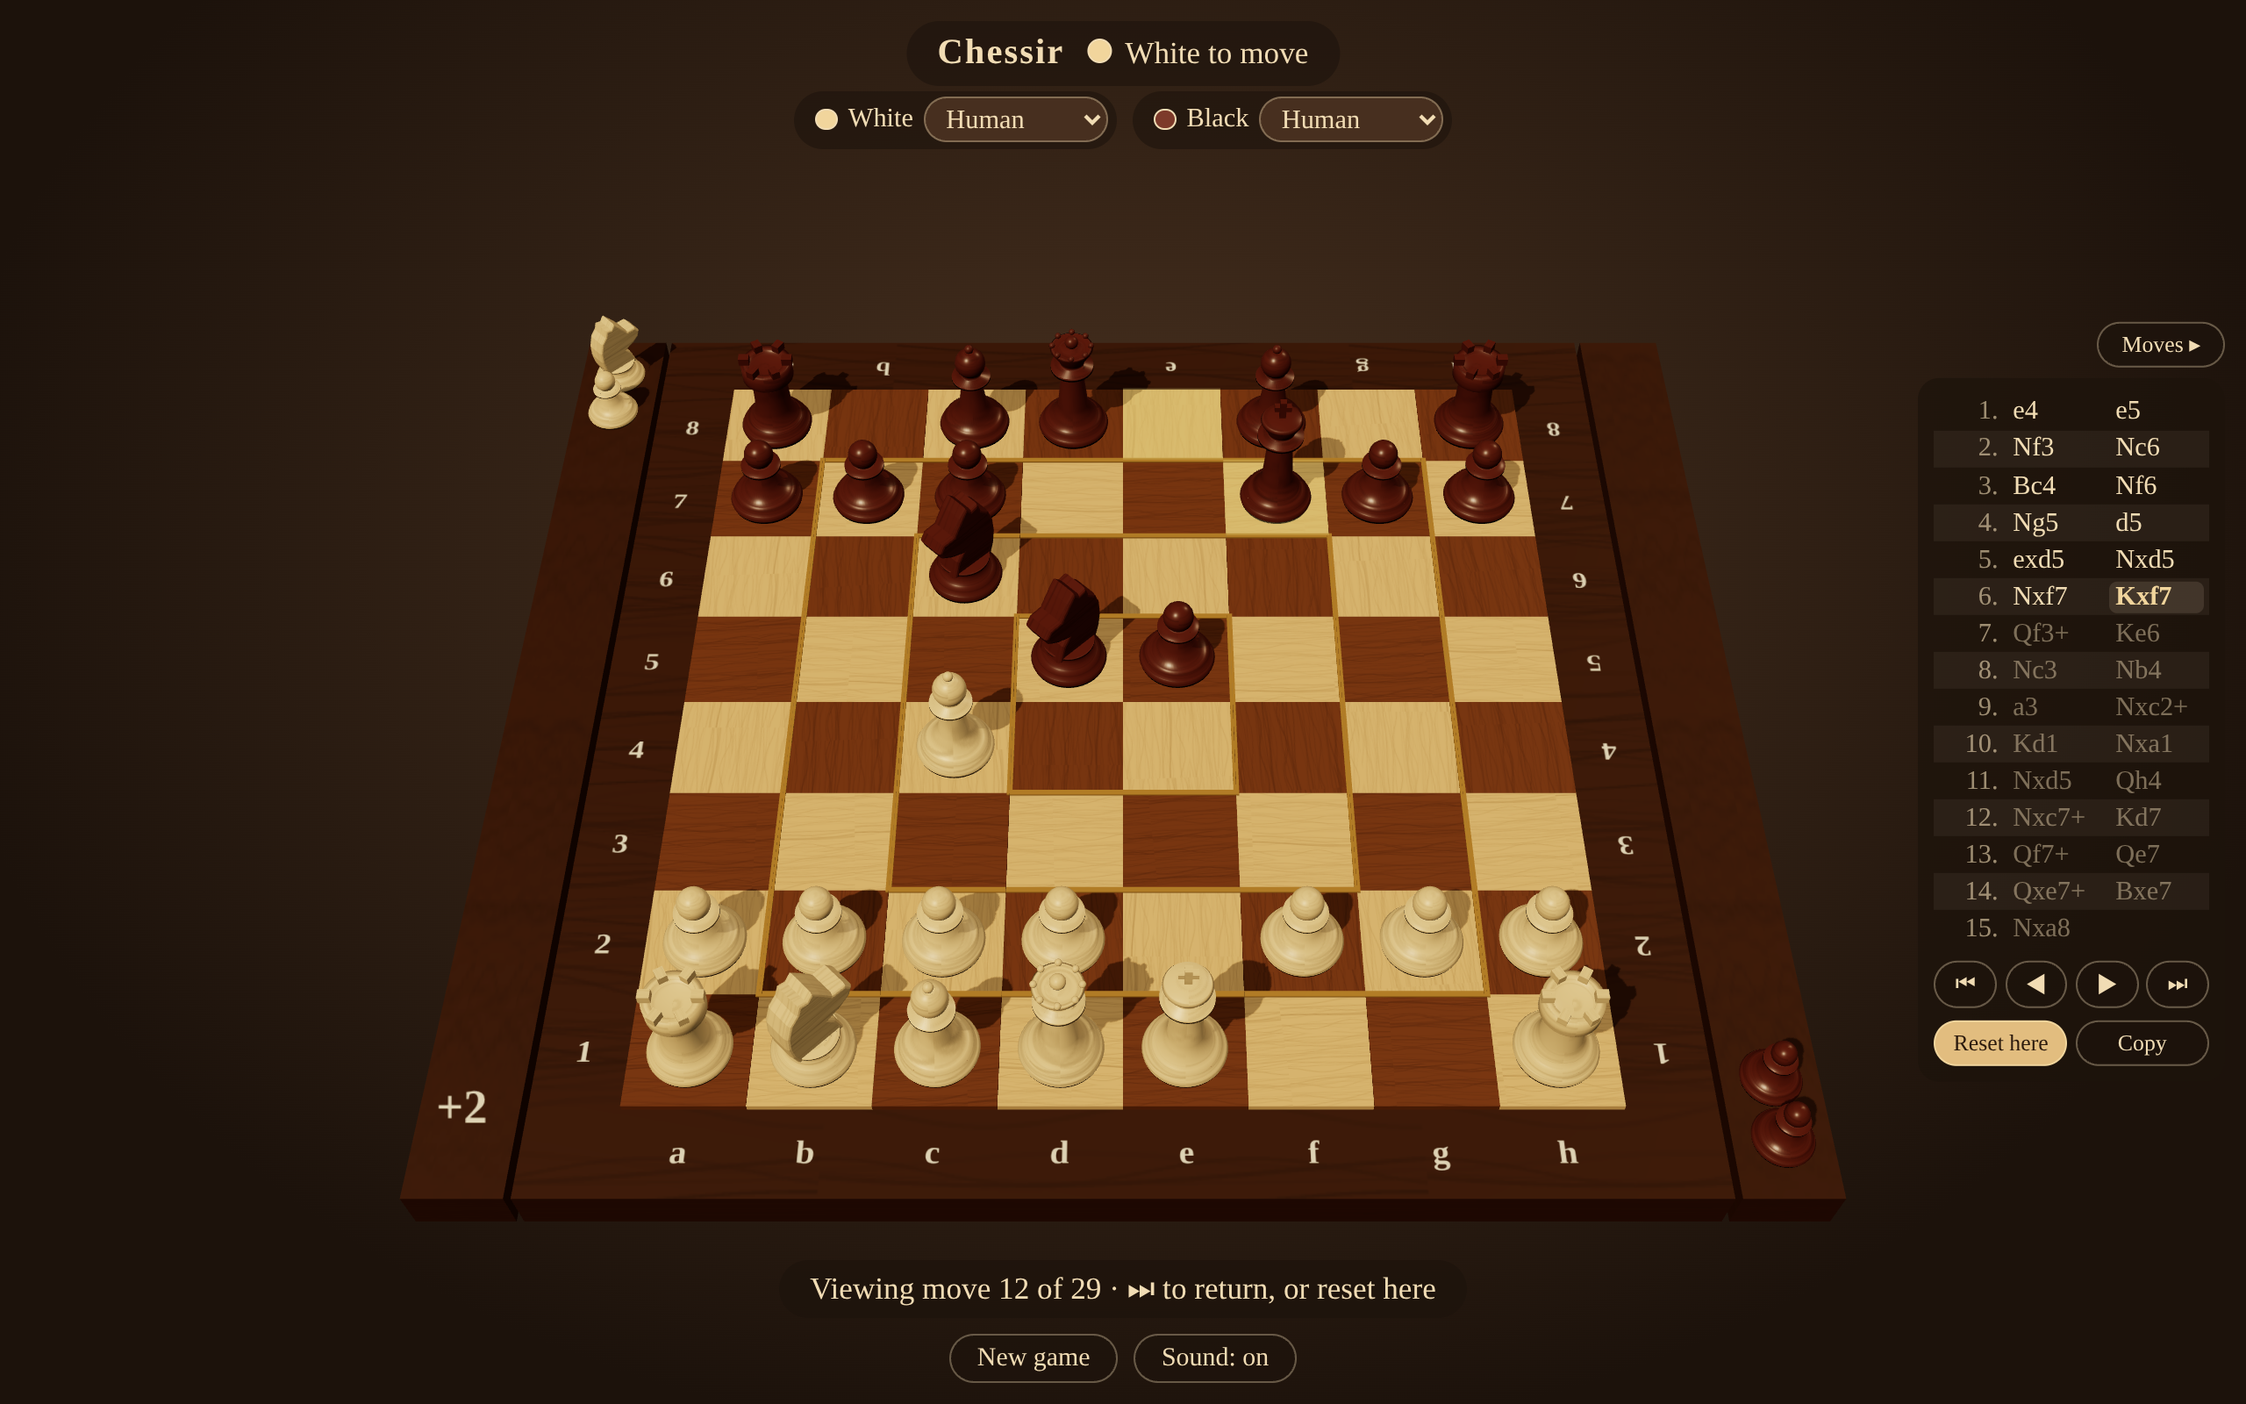
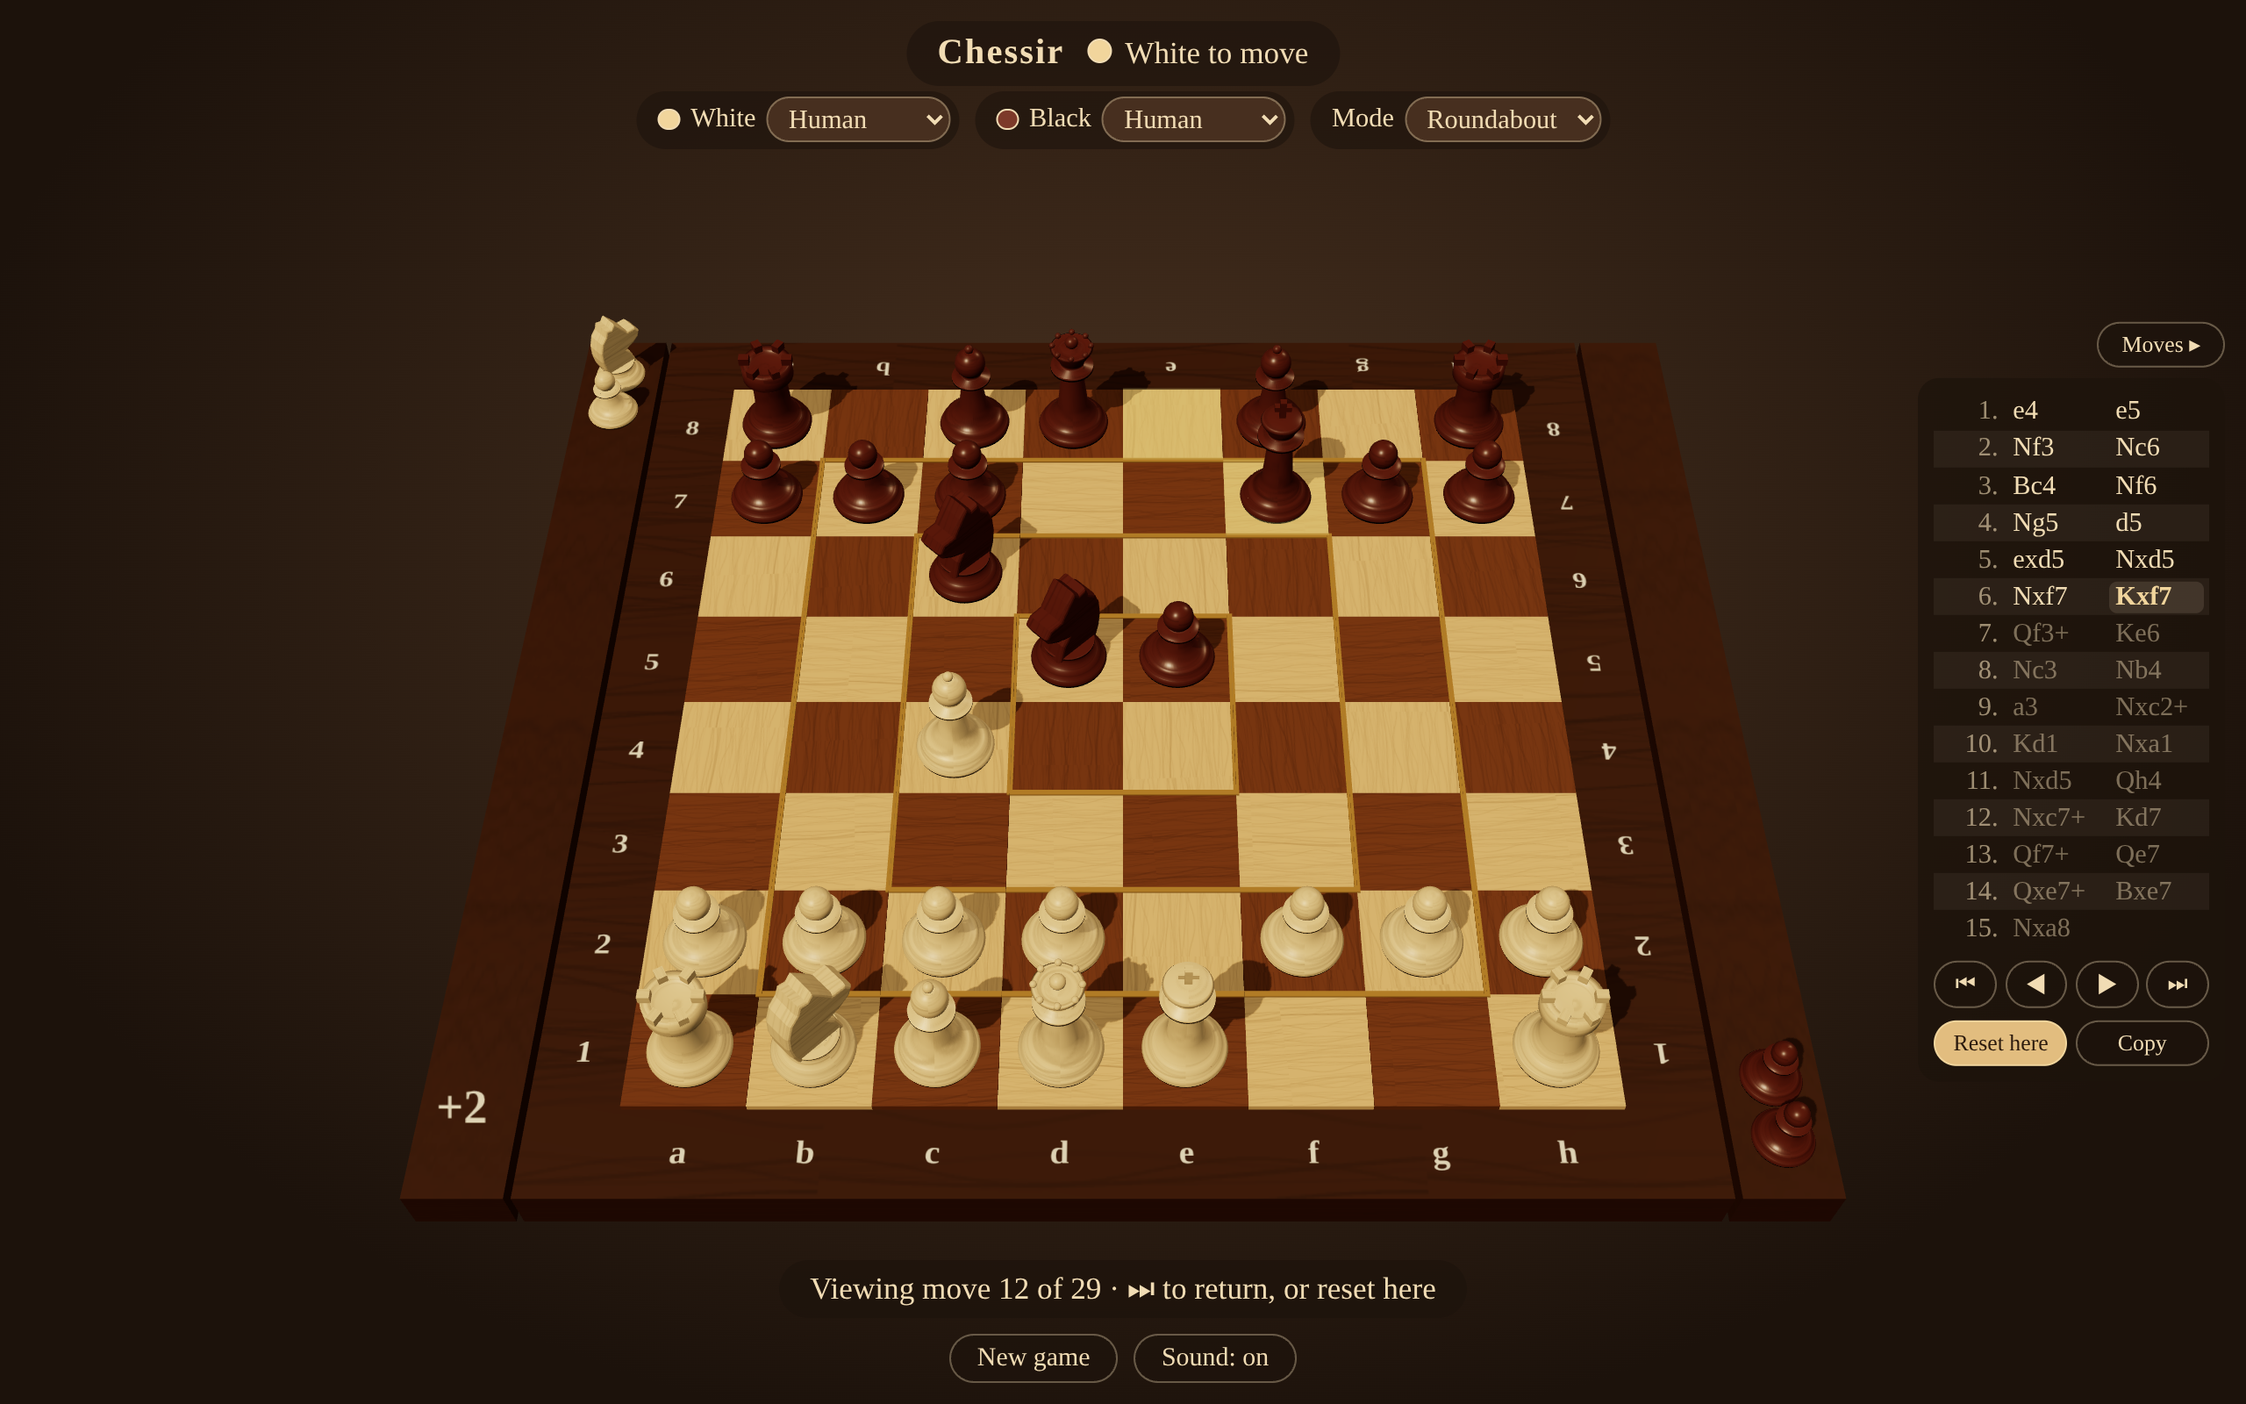
Add game mode switch: roundabout (with rotations) and normal chess
Normal mode refuses every band rotation in the rules and the engine, so
both bots play plain chess. The rotation buttons, band selection and
ring inlays are hidden in normal mode. Changing the mode starts a new
game and is remembered.

Claude-Session: https://claude.ai/code/session_015uFG4y8ubt39LsfkH46yK3

Changed region(s): [[0.2812, 0.0625, 0.7188, 0.125]]

diff --git a/src/players/human.js b/src/players/human.js
@@ -2,10 +2,12 @@ import { moveAction, rotateAction } from '../game/actions.js';
 import { bandOf } from '../game/board.js';
 import { BAND_LETTERS, bandMoveName } from '../game/notation.js';
 import { PROMOTIONS, legalMovesFrom, rotationBlockReason } from '../game/rules.js';
+import { NORMAL } from '../game/state.js';
 
 const BAND_NAMES = ['outer ring', 'second ring', 'third ring', 'centre'];
 const PROMOTION_SYMBOLS = { queen: '♛', rook: '♜', bishop: '♝', knight: '♞' };
 const HINT = 'Tap a piece to move it, or any square to turn its ring';
+const NORMAL_HINT = 'Tap a piece to move it';
 
 /**
  * A player driven by taps on the board and the HUD buttons. One instance serves both
@@ -19,7 +21,8 @@ export function createHumanPlayer(ui, onSelection) {
   let selected = null;
   let moves = [];
 
-  const band = () => (selected === null ? null : bandOf(selected));
+  const turnsBands = () => state?.mode !== NORMAL;
+  const band = () => (selected === null || !turnsBands() ? null : bandOf(selected));
 
   function refresh() {
     const targets = [];
@@ -33,7 +36,9 @@ export function createHumanPlayer(ui, onSelection) {
     const active = resolve !== null && band() !== null;
     ui.bandName.textContent = active
       ? `Turn band ${BAND_LETTERS[band()]} · ${BAND_NAMES[band()]}`
-      : HINT;
+      : turnsBands()
+        ? HINT
+        : NORMAL_HINT;
     let note = '';
     for (const [button, direction] of [
       [ui.rotateCounterClockwise, -1],
@@ -86,7 +91,9 @@ export function createHumanPlayer(ui, onSelection) {
     const options = moves.filter((m) => m.to === square);
     if (options.length > 1) return choosePromotion(options[0].from, square);
     if (options.length === 1) return submit(options[0]);
-    select(square === selected ? null : square);
+    // Without rotations a square is only worth selecting for a piece of the side to move.
+    const selectable = turnsBands() || state.board[square]?.color === state.turn;
+    select(square === selected || !selectable ? null : square);
   }
 
   function rotate(direction) {

diff --git a/tests/engine.test.js b/tests/engine.test.js
@@ -18,10 +18,10 @@ function seeded(seed) {
   };
 }
 
-function randomGames(count, plies, seed, check) {
+function randomGames(count, plies, seed, check, options) {
   const random = seeded(seed);
   for (let g = 0; g < count; g++) {
-    let state = newGame();
+    let state = newGame(options);
     for (let ply = 0; ply < plies && !state.result; ply++) {
       check(state);
       const actions = legalActions(state);
@@ -39,6 +39,22 @@ describe('engine position', () => {
       const theirs = legalActions(state).map(describeAction).sort();
       expect(mine).toEqual(theirs);
     });
+  }, 60000);
+
+  it('generates no rotations in normal mode, matching the rules', () => {
+    randomGames(
+      10,
+      80,
+      5,
+      (state) => {
+        const mine = Position.fromState(state).legalMoves().map(moveToAction);
+        expect(mine.some((a) => a.type === 'rotate')).toBe(false);
+        expect(mine.map(describeAction).sort()).toEqual(
+          legalActions(state).map(describeAction).sort(),
+        );
+      },
+      { mode: 'normal' },
+    );
   }, 60000);
 
   it('keeps the incremental hash and the board in step through make and unmake', () => {
@@ -93,6 +109,15 @@ describe('engine search', () => {
     const state = position({ g1: 'wK', a7: 'wR', b2: 'wR', h8: 'bK' });
     const next = applyAction(state, best(state));
     expect(next.result?.outcome).toBe('checkmate');
+  });
+
+  it('plays a move, not a rotation, in normal mode', () => {
+    let state = newGame({ mode: 'normal' });
+    for (let ply = 0; ply < 6; ply++) {
+      const action = best(state, 100);
+      expect(action.type).toBe('move');
+      state = applyAction(state, action);
+    }
   });
 
   it('wins a hanging queen', () => {

diff --git a/src/main.js b/src/main.js
@@ -5,6 +5,7 @@ import { bandSquares } from './game/board.js';
 import { movesOf, recordAction, startHistory, truncateHistory } from './game/history.js';
 import { materialBalance } from './game/material.js';
 import { checkers, findKing, newGame } from './game/rules.js';
+import { GAME_MODES, ROUNDABOUT } from './game/state.js';
 import { createBoardView } from './render/boardView.js';
 import { createCapturedView } from './render/capturedView.js';
 import { createHighlights } from './render/highlights.js';
@@ -157,6 +158,27 @@ for (const color of ['white', 'black']) {
   });
 }
 
+const modeSelect = $('game-mode');
+function savedMode() {
+  try {
+    const mode = localStorage.getItem('chessir.mode');
+    if (GAME_MODES.includes(mode)) return mode;
+  } catch {
+    // Storage can be unavailable (private mode); fall back to the default.
+  }
+  return ROUNDABOUT;
+}
+modeSelect.value = savedMode();
+modeSelect.addEventListener('change', () => {
+  try {
+    localStorage.setItem('chessir.mode', modeSelect.value);
+  } catch {
+    // Not remembering the choice is fine.
+  }
+  // The rules differ from the first move on, so a new mode means a new game.
+  startGame();
+});
+
 onSquareTap(
   {
     canvas: renderer.domElement,
@@ -227,8 +249,9 @@ function resetHere() {
 
 function startGame() {
   pause();
-  history = startHistory(newGame());
+  history = startHistory(newGame({ mode: modeSelect.value }));
   viewing = 0;
+  boardView.showBandInlays(live().mode === ROUNDABOUT);
   showPosition();
   play();
 }

diff --git a/src/engine/position.js b/src/engine/position.js
@@ -1,5 +1,6 @@
 import { BAND_COUNT, bandOf, bandSquares } from '../game/board.js';
 import { WHITE as WHITE_NAME } from '../game/pieces.js';
+import { NORMAL as NORMAL_MODE } from '../game/state.js';
 
 // A compact mutable position with make/unmake, so the search does not allocate per node.
 // It mirrors src/game/rules.js exactly; tests/engine.test.js checks that on random games.
@@ -175,6 +176,8 @@ export class Position {
     this.hashHi = 0;
     // Rotations blocked by the no-undo rule in the current position, as restoringRotations.
     this.blocked = 0;
+    // False in normal mode, where neither side may turn a band.
+    this.rotations = true;
     this.ply = 0;
     this.prevBoard = new Int8Array(64);
     this.scratch = new Int8Array(64);
@@ -207,6 +210,7 @@ export class Position {
       const r = state.board[rook];
       if (k && r && !state.moved.includes(k.id) && !state.moved.includes(r.id)) pos.castling |= bit;
     }
+    pos.rotations = state.mode !== NORMAL_MODE;
     pos.ep = state.enPassant ?? -1;
     pos.halfmove = state.halfmoveClock;
     for (let sq = 0; sq < 64; sq++) {
@@ -404,6 +408,7 @@ export class Position {
       }
     }
 
+    if (!this.rotations) return n;
     // In check, the bands holding the king or a checker are locked.
     const checkerBands = this.attackerBands(king, them);
     const locked = checkerBands ? checkerBands | (1 << BAND_OF[king]) : 0;

diff --git a/src/game/rules.js b/src/game/rules.js
@@ -1,7 +1,7 @@
 import { BAND_COUNT, BOARD_SIZE, bandSquares, squareCoords, squareIndex } from './board.js';
 import { moveAction, rotateAction } from './actions.js';
 import { BISHOP, KING, KNIGHT, PAWN, QUEEN, ROOK, WHITE, opponent } from './pieces.js';
-import { createInitialState, rotateBand } from './state.js';
+import { NORMAL, createInitialState, rotateBand } from './state.js';
 
 export const PROMOTIONS = [QUEEN, ROOK, BISHOP, KNIGHT];
 const FIFTY_MOVE_PLIES = 100;
@@ -228,6 +228,7 @@ function restoresPreviousBoard(state, band, direction) {
  */
 export function rotationBlockReason(state, band, direction) {
   if (state.result) return 'The game is over';
+  if (state.mode === NORMAL) return 'Bands do not turn in normal mode';
   const ring = bandSquares(band);
   if (!ring.some((sq) => state.board[sq])) return 'This band is empty';
   // Turning a band that carries only enemy pieces would move nothing but theirs.
@@ -326,8 +327,8 @@ function withPositionRecorded(state) {
   return { ...state, positions: { ...state.positions, [key]: (state.positions[key] ?? 0) + 1 } };
 }
 
-export function newGame() {
-  return Object.freeze(withPositionRecorded(createInitialState()));
+export function newGame(options) {
+  return Object.freeze(withPositionRecorded(createInitialState(options)));
 }
 
 /** Plays a legal action and returns the next state; throws on illegal input. */

diff --git a/tests/rules.test.js b/tests/rules.test.js
@@ -221,3 +221,24 @@ describe('draws', () => {
     expect(state.result).toMatchObject({ outcome: 'draw', reason: 'threefold repetition' });
   });
 });
+
+describe('game modes', () => {
+  it('starts in roundabout mode, where bands turn', () => {
+    const state = newGame();
+    expect(state.mode).toBe('roundabout');
+    expect(legalRotations(state).length).toBeGreaterThan(0);
+  });
+
+  it('allows no rotations in normal mode', () => {
+    const state = newGame({ mode: 'normal' });
+    expect(legalActions(state)).toHaveLength(20);
+    expect(rotationBlockReason(state, 0, 1)).toBe('Bands do not turn in normal mode');
+    expect(() => applyAction(state, rotateAction(0, 1))).toThrow();
+  });
+
+  it('keeps the mode for the whole game', () => {
+    const state = applyAction(newGame({ mode: 'normal' }), moveAction(sq('e2'), sq('e4')));
+    expect(state.mode).toBe('normal');
+    expect(legalRotations(state)).toEqual([]);
+  });
+});

diff --git a/src/game/state.js b/src/game/state.js
@@ -6,7 +6,12 @@ import { BACK_RANK, BLACK, PAWN, WHITE } from './pieces.js';
  * copying or undoing anything. Pieces carry stable ids so the renderer can follow
  * them when a band rotation moves many pieces at once.
  */
-export function createInitialState() {
+/** Roundabout is the game with band rotations; normal mode is plain chess. */
+export const ROUNDABOUT = 'roundabout';
+export const NORMAL = 'normal';
+export const GAME_MODES = [ROUNDABOUT, NORMAL];
+
+export function createInitialState({ mode = ROUNDABOUT } = {}) {
   const board = new Array(BOARD_SIZE * BOARD_SIZE).fill(null);
   let nextId = 0;
   const place = (file, rank, type, color) => {
@@ -22,6 +27,7 @@ export function createInitialState() {
 
   return Object.freeze({
     board: Object.freeze(board),
+    mode,
     turn: WHITE,
     // Square a pawn just skipped with its double step, capturable en passant this turn.
     enPassant: null,

diff --git a/src/engine/worker.js b/src/engine/worker.js
@@ -2,9 +2,15 @@ import { Position, moveToAction } from './position.js';
 import { createSearcher } from './search.js';
 
 // Runs the search off the main thread so the board keeps animating while the bot thinks.
-const searcher = createSearcher({ ttBits: 21 });
+let searcher = null;
+let searcherMode = null;
 
 self.onmessage = ({ data: { state, softMs, hardMs } }) => {
+  // The table kept between moves knows nothing of the mode, so a new mode starts a fresh one.
+  if (state.mode !== searcherMode) {
+    searcher = createSearcher({ ttBits: 21 });
+    searcherMode = state.mode;
+  }
   const result = searcher.think(Position.fromState(state), { softMs, hardMs });
   self.postMessage({
     action: moveToAction(result.move),

diff --git a/src/render/boardView.js b/src/render/boardView.js
@@ -125,11 +125,20 @@ function buildBands() {
 export function createBoardView() {
   const group = new THREE.Group();
   const bands = buildBands();
-  group.add(buildFrame(), buildLabels(), buildBandInlays(), ...bands);
+  const inlays = buildBandInlays();
+  group.add(buildFrame(), buildLabels(), inlays, ...bands);
   const edge = FRAME_EDGE;
   const bounds = new THREE.Box3(
     new THREE.Vector3(-edge, FRAME_TOP - 0.45, -edge),
     new THREE.Vector3(edge, 1.3, edge),
   );
-  return { group, bands, bounds };
+  return {
+    group,
+    bands,
+    bounds,
+    /** Shows the ring borders only when the rings can turn. */
+    showBandInlays(visible) {
+      inlays.visible = visible;
+    },
+  };
 }

diff --git a/src/style.css b/src/style.css
@@ -81,7 +81,11 @@ body {
   left: 50%;
   transform: translateX(-50%);
   display: flex;
+  flex-wrap: wrap;
+  justify-content: center;
   gap: 0.6em;
+  width: max-content;
+  max-width: calc(100vw - 24px);
   font-size: clamp(13px, 1.9vmin, 16px);
   white-space: nowrap;
 }
@@ -95,7 +99,8 @@ body {
   background: rgb(28 18 11 / 0.6);
 }
 
-.players label::before {
+.players label.white::before,
+.players label.black::before {
   content: '';
   width: 0.7em;
   height: 0.7em;

diff --git a/index.html b/index.html
@@ -21,6 +21,13 @@
         >Black
         <select id="player-black"></select
       ></label>
+      <label class="mode"
+        >Mode
+        <select id="game-mode">
+          <option value="roundabout">Roundabout</option>
+          <option value="normal">Normal</option>
+        </select></label
+      >
     </div>
     <aside id="notation" class="notation">
       <button id="notation-toggle" type="button" class="secondary" aria-controls="notation-body">

diff --git a/README.md b/README.md
@@ -23,6 +23,15 @@ every piece back exactly where it stood before their move. In practice that mean
 straight back right after your opponent rotated it. Any rotation that leads somewhere new is
 fine. Without this rule a game could stall forever with the same two positions taking turns.
 
+### Game modes
+
+The **Mode** selector at the top picks the rules. **Roundabout** (the default) is the game
+described here, with band rotations. **Normal** is plain chess: no band can be turned, the bots
+only move pieces, and the rotation controls and the golden ring borders on the board are hidden.
+Changing the mode starts a new game, and the choice is remembered.
+
+![Normal mode: plain chess, without ring borders or rotation controls](docs/screenshots/normal-mode.png)
+
 Details that follow from the twist:
 
 - Castling is allowed only if neither the king nor that rook has ever left its square, whether
@@ -49,7 +58,7 @@ As a human:
 
 - Tap one of your pieces to see where it can go (dots, or rings for captures), then tap the
   destination. Promotions ask which piece you want.
-- Tap any square to select its band; use ↺ / ↻ at the bottom to turn that band one square
+- In roundabout mode, tap any square to select its band; use ↺ / ↻ at the bottom to turn that band one square
   counter-clockwise or clockwise (as seen from White's side). If the turn is not allowed, the
   reason appears under the buttons.
 - Drag to orbit the camera, scroll or pinch to zoom.
@@ -202,6 +211,7 @@ attackers around too much for it to mean anything, so it was dropped.
 - [x] Piece moves and band rotation in the UI (hot-seat)
 - [x] Rules enforcement (check, mate, special moves, draws)
 - [x] Player picker: human or bot for each side
+- [x] Game modes: roundabout (with rotations) and normal chess
 - [x] Greedy bot
 - [x] Deep bot (alpha-beta search in a Web Worker)
 - [x] Move record panel with copy to clipboard
